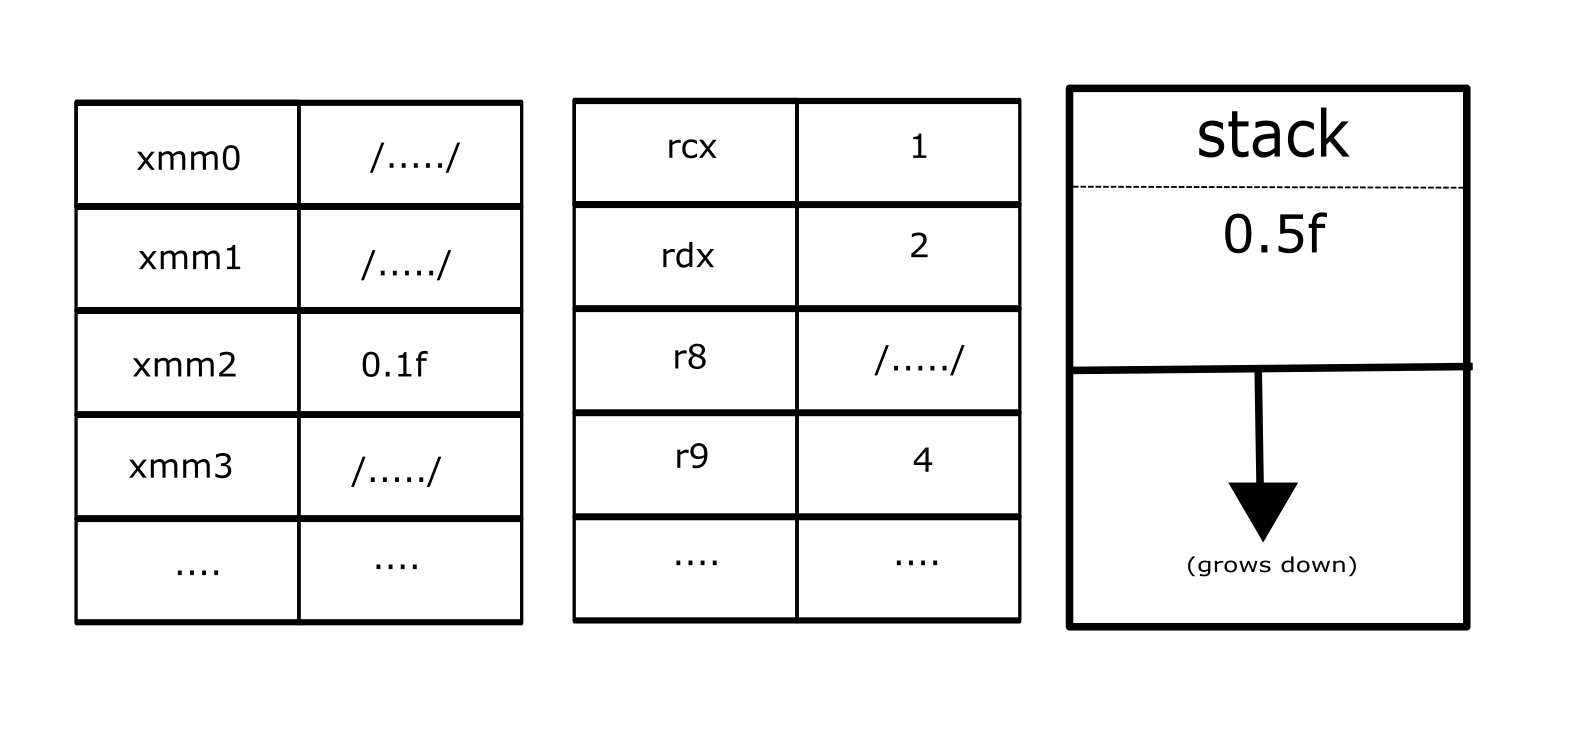
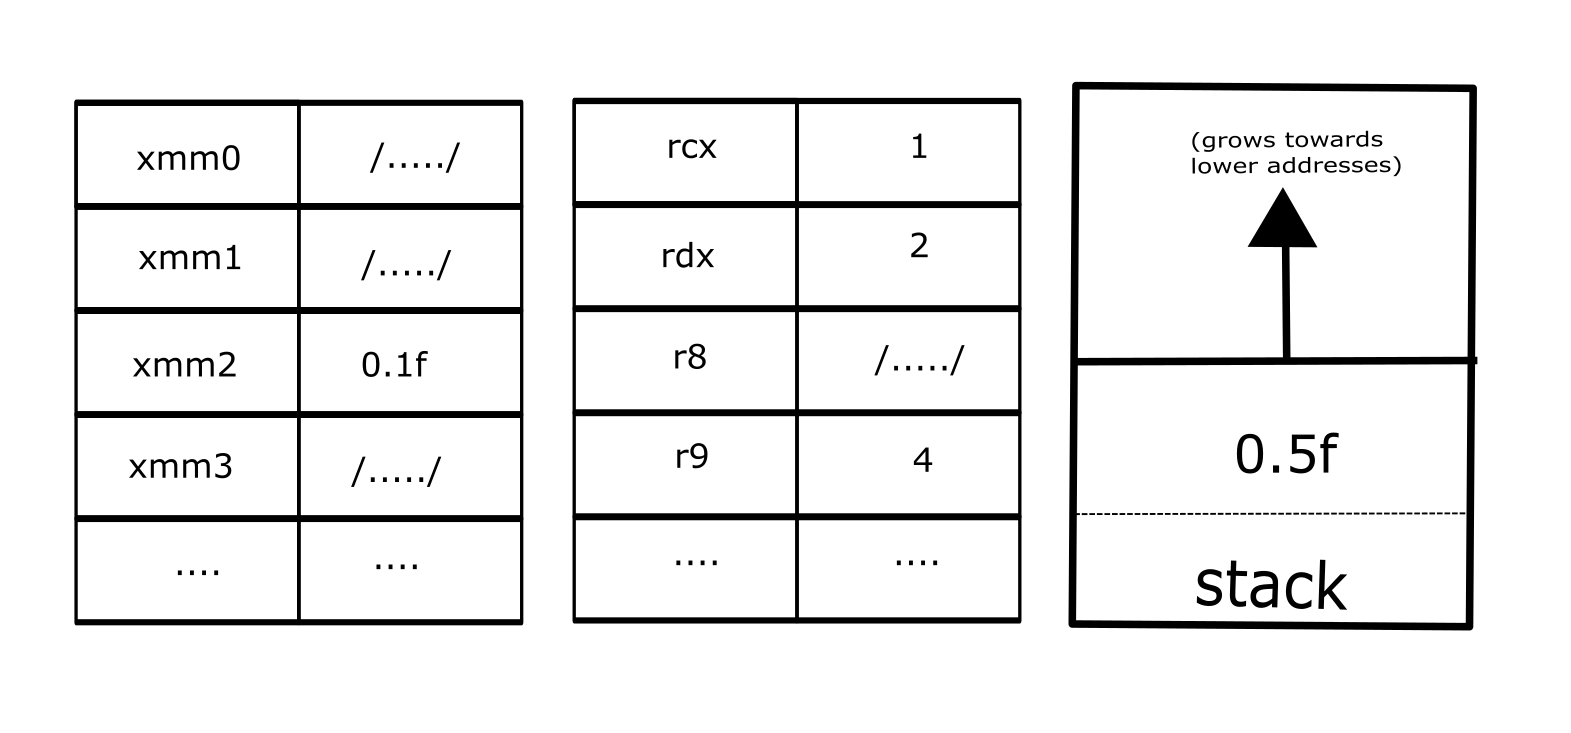
Adding Mixed functions (3.5 CallingConvention)

Changed region(s): [[0.655, 0.09, 0.9669, 0.8704]]

diff --git a/Chapter 3 - Assembly/3.5 CallingConventions.md b/Chapter 3 - Assembly/3.5 CallingConventions.md
@@ -26,7 +26,8 @@ int main(){
 func(1,2,0.1f,4,0.5f);
 }
 ```
-![[[ignore]/MixedFunc.png]]
+
+<img src="[ignore]/MixedFunc.png">
 
 - Simply put: When passing arguments, first determine its data type. Then, consider only the registers assigned to that specific data type(for `float` `xmm0` to `xmm3`). The argument is placed according to the position of the argument within that type's sequence(in our example, `0.1f` is third in position and is passed onto the third register `xmm2` ).
 - Similarly, for the argument `d` (which has a value of 4), we examine its data type, identified as `int`. We then note its position in the argument list, which is fourth. Consequently, we store the value 4 in the fourth integer register, namely `r9`.
